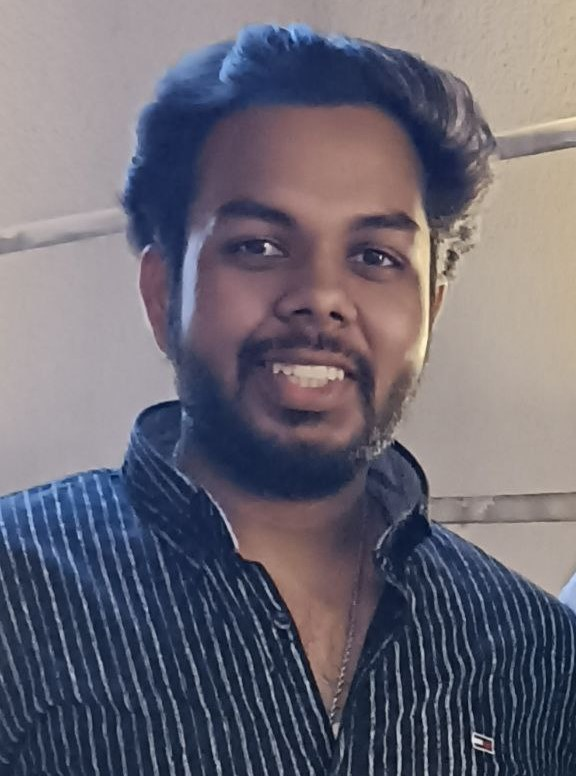
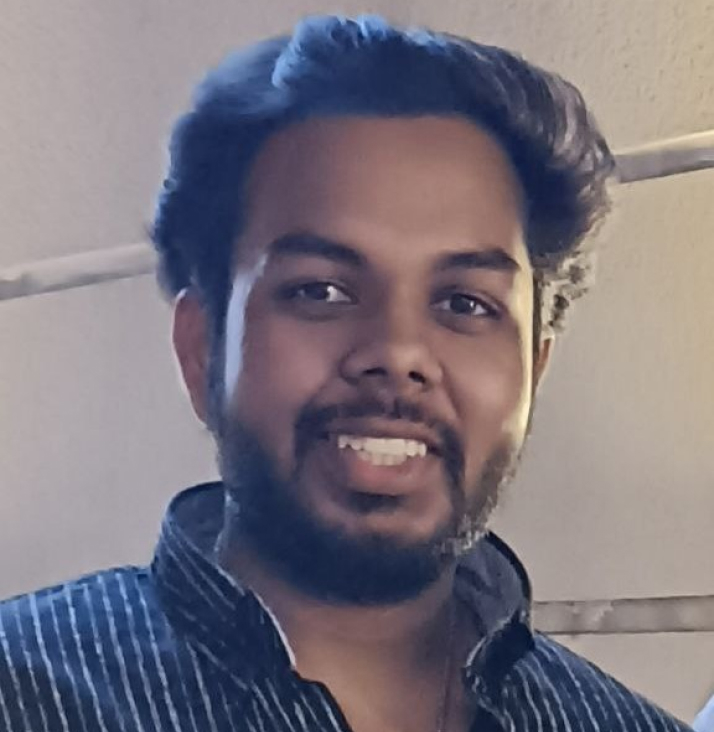
changed image dimensions

diff --git a/src/components/Team/Team.scss b/src/components/Team/Team.scss
@@ -50,7 +50,7 @@
     .member-image {
       width: 250px;
       height: 250px;
-      border-radius: 50%;
+      border-radius: 100%;
       object-fit: cover;
     }
 
@@ -100,5 +100,13 @@
         }
       }
     }
+  }
+}
+
+
+@media (max-width: 600px){
+  .member-image{
+    height: 25vw;
+    width: 25vw;
   }
 }

diff --git a/src/components/Header/Header.scss b/src/components/Header/Header.scss
@@ -27,6 +27,7 @@ $font-size: 1rem;
     font-weight: bold;
     align-items: center;
     margin: 0 0 0 2.5rem;
+    justify-content: center;
 
     img {
       height: $logo-height;
